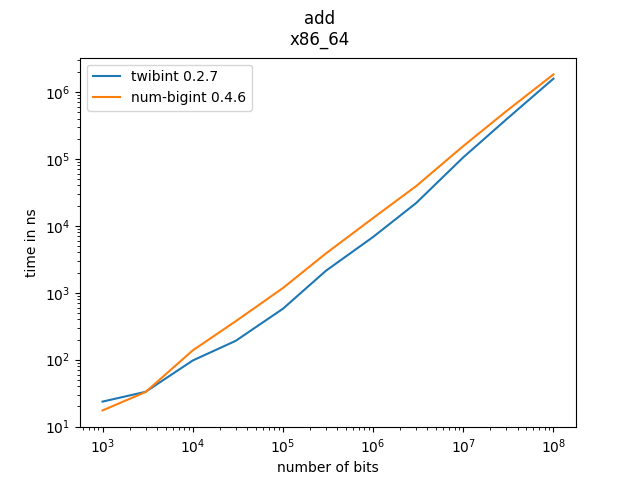
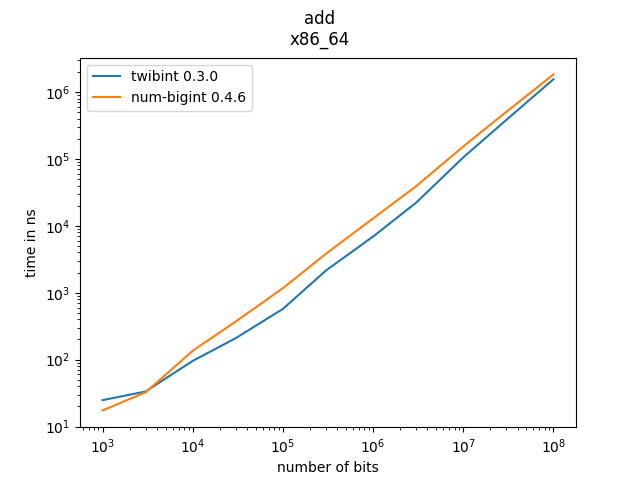
update README and bench data

diff --git a/benches/run_benchmarks.py b/benches/run_benchmarks.py
@@ -9,7 +9,7 @@ import matplotlib.pyplot as plt
 
 VERSIONS = {
 	"num-bigint": "0.4.6",
-	"twibint": "0.2.7",
+	"twibint": "0.3.0",
 }
 
 def run_benchmark(crate):

diff --git a/README.md b/README.md
@@ -4,16 +4,22 @@ Rust crate for arbitrarily big integers, signed or unsigned.
 [![crate](https://img.shields.io/crates/v/twibint.svg)](https://crates.io/crates/twibint)
 [![documentation](https://docs.rs/twibint/badge.svg)](https://docs.rs/twibint)
 
-This crate does not need any dependency, and relies only on the standard 
-library. Some dependencies are optional, depending on a specific feature (see 
-list of features below).
-
 The main API of this crate is to export 2 types: BigUint and BigInt, 
 meant to represent unsigned or signed integers of arbitrarily large
 absolute value. They are meant to be used in almost any way a regular 
 integer can be used, though they don't implement the `Copy` trait.
 
-Build, documentation, benchmarks and tests are available the usual way calling
+These types let you choose the underlying digit representation (`u32` 
+or `u64`, maybe more in the future) via a generic type parameter. 
+All features are identical. You're welcome to try both to see what's 
+most efficient for your use case on your particular machine. 
+
+Each integer can also be saved to, or imported from, a file, using 
+`BigUint::write_to_file`, or `Imported::read_from_file`. The import 
+creates an enum with one variant per available integer type. See 
+documentation for more info.
+
+Build, documentation, and tests are available the usual way calling
 the following:
 
 ```bash
@@ -24,13 +30,19 @@ cargo test
 
 For benchmarks, please visit the `benches` folder.
 
+This crate relies only on the standard library for its core features. 
+Some dependencies are optional, depending on a specific feature (see 
+list of features below).
+
 # Performance
 More details and scripts about performance are available in the `benches` 
 folder.
 
-TL;DR -> The current state of `twibint`s performance (v0.2.7) is: Addition, 
-Subtraction and Multiplication are faster than for Python integers, and faster 
-then `num-bigint` at some scales. Division remains extremely slow.
+TL;DR -> The current state of `twibint`s performance (v0.3.0) is: 
+Addition, Subtraction and Multiplication are faster than for Python 
+integers (Division is slightly slower), and sometimes faster then 
+`num-bigint` at some scales. Division remains quite slower than 
+`num-bigint`.
 
 # List of features
 
@@ -61,15 +73,13 @@ Performance comparison with Python's default integers are available in the
 `benches` folder.
 
 
-# Changelog for version 0.2
-This new version contains extensive accelerations for addition, subtraction, and 
-multiplication on x86_64 machines. I used no modern extensions of x86, so these 
-acceleration should be portable accross this family of machines. These 
-will probably also have performance repercussions on many other features.
+# Notice for version 0.2
+This contains hardware acceleration for x86_64 architectures that use 
+unsafe code. Forusers wanting extra security (i.e. only safe Rust), 
+use with the flag `--no-default-features` for a slower experience, but 
+fully compiled in safe Rust.
 
-These acceleration are mostly due to dropping inline assembly for core loops, and are 
-based on `unsafe` Rust. Other `unsafe` features used include smartly swapping between 
-`&[u32]` and `&[u64]` slices via pointers (when alignment is lucky).
-
-To disable any `unsafe` code, use with the flag `--no-default-features` for a slower
-experience, but fully compiled in safe Rust.
+# Notice for version 0.3
+This contains new algorithms for division that make this crate more 
+usable. Additionally starts supporting exporting integers to file 
+and importing them from a file. 

diff --git a/benches/README.md b/benches/README.md
@@ -5,8 +5,8 @@ A very simple and naive scripts helps evaluate how the performance compares to
 Python integers: `benches.py`.
 
 Simply put, `twibint`'s addition and multiplication are faster, but division 
-is slower. I've not produced a systematic study comparing the 2 option at 
-different scales at this point.
+is slightly slower. I've not produced a systematic study comparing the 
+2 option at different scales at this point.
 
 ## comparing to `num-bigint`
 Running the Python script `run_benchmarks.py` will run a series of benchmarks 
